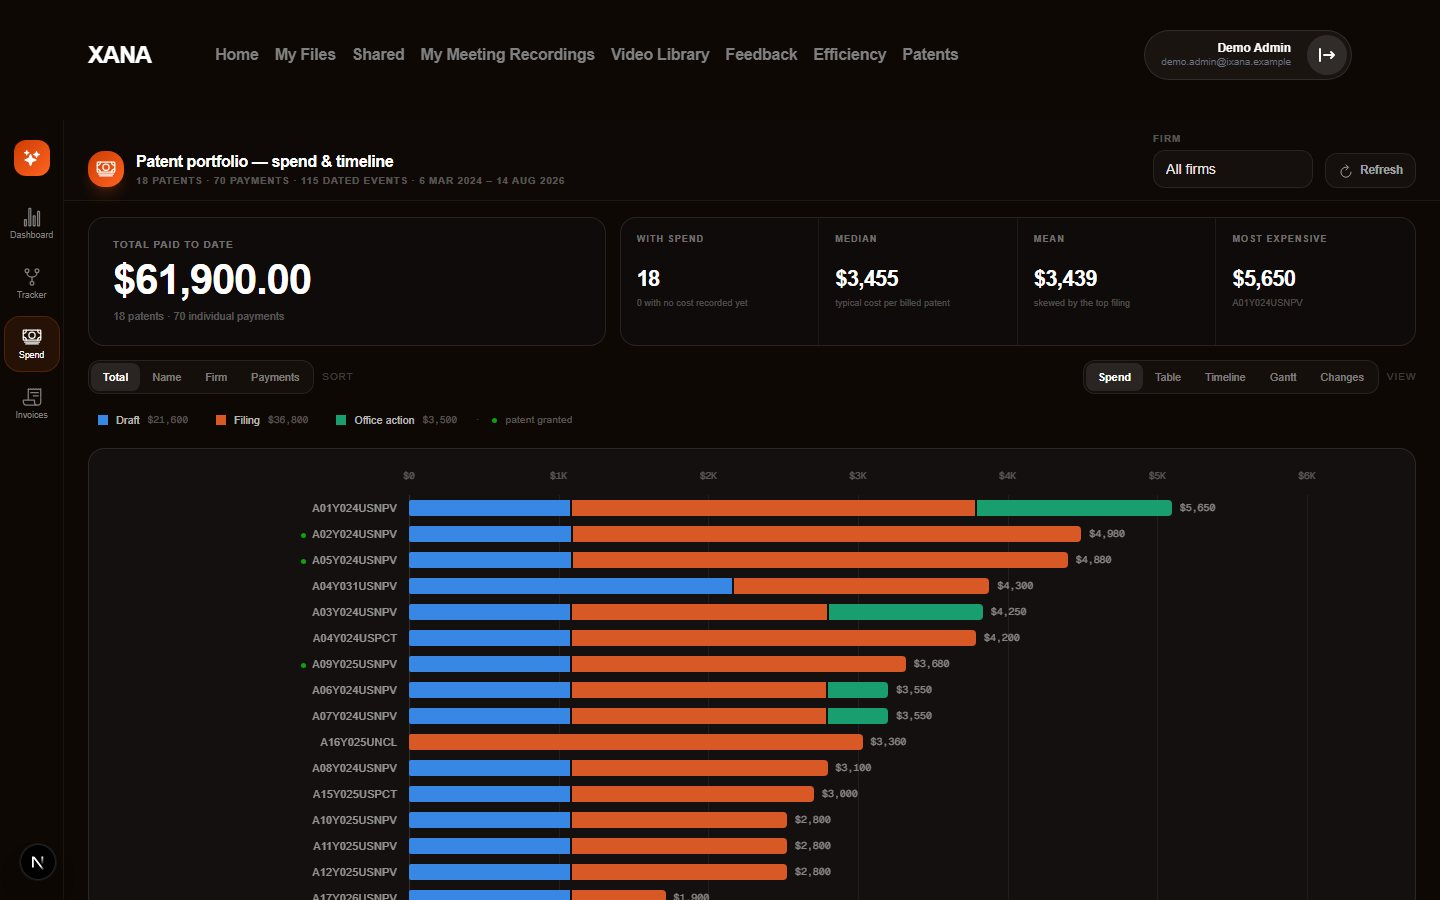
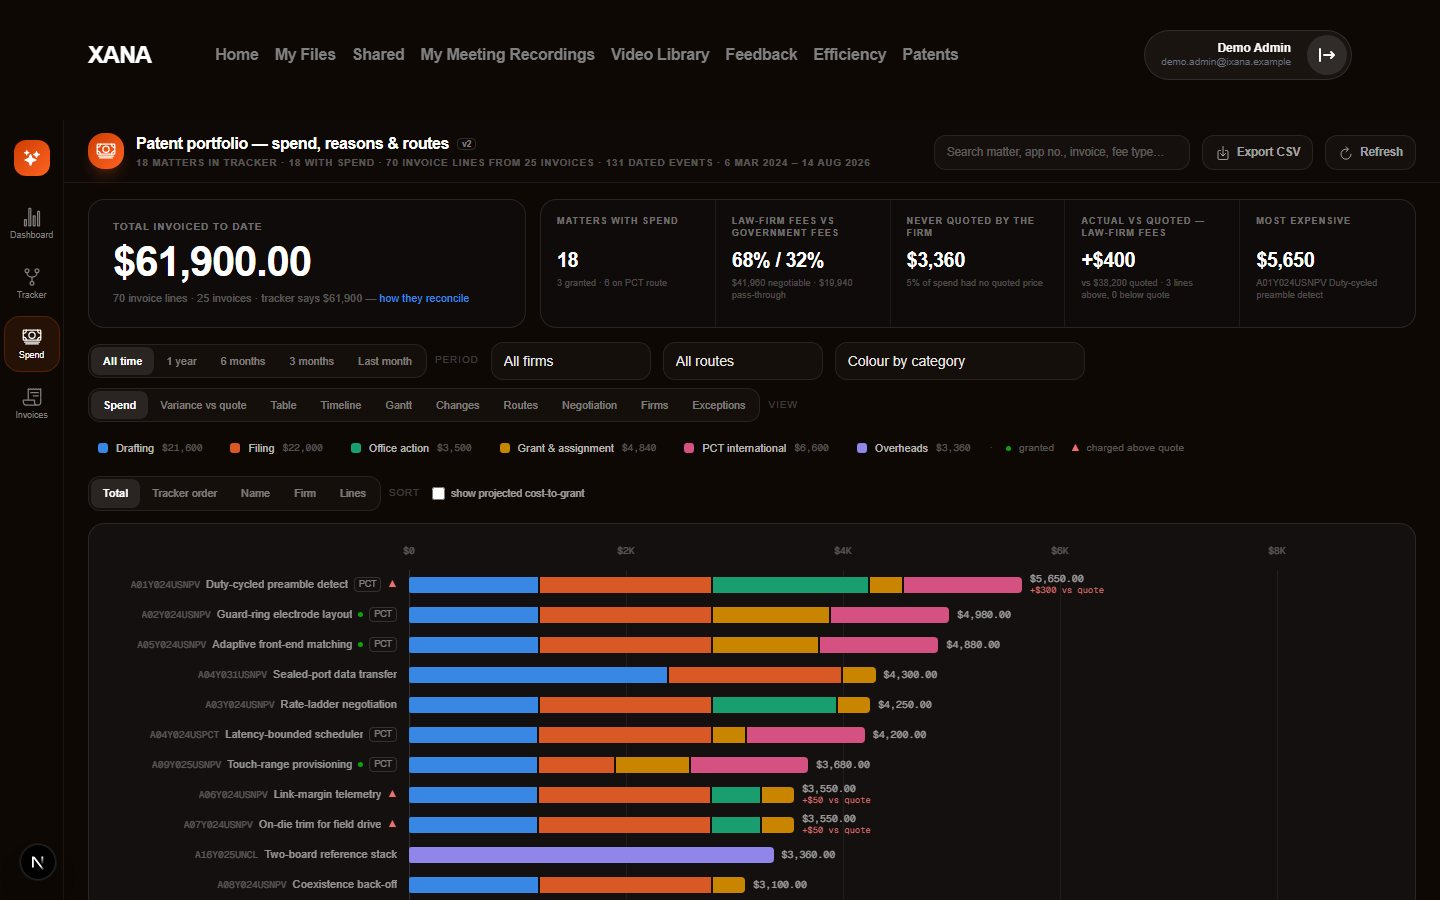
patent program: the spend tile shows the ten-view tool it links to
The demo's spend surface is now the second version of the tool - ten
views over an invoice-line ledger with quotes, variance, routes, a
forward budget, a negotiation sheet, a firm comparison and exceptions.
The gallery tile is recaptured from its new landing state; label,
caption and alt describe the ten views; the surface-table row is
renamed Spend, reasons and routes; config states the ledger, the
variance rule, the mirrored deadlines and the estimate label. No prose
changed (991 words). Section 15 of the change brief records the port
and the confidentiality handling.

diff --git a/app/Changes/ixana-patent-program-change-brief.md b/app/Changes/ixana-patent-program-change-brief.md
@@ -300,3 +300,20 @@ Both files return 0. Every matter, reference name, firm, person, subject line an
 **Rule held.** Every image is the state its own link opens. The gallery's other five tiles were re-checked against their links and left alone.
 
 **Confidentiality.** The regression grep in §13 still returns 0 on `data/case-studies-v2.json`, `public/demo/patent-clock.html`, and the demo's `src/lib/patent-demo-data.ts`. The attached HTML itself carries real matter titles, application numbers, firm names and fee amounts; it stays out of the repo (`app/work/patent_spend-1.html` is untracked and must not be committed).
+
+
+---
+
+## 15. Change record — 2026-09-26, the spend surface becomes the ten-view tool
+
+**What prompted it.** The five-view `patent_spend-1.html` turned out to be identical to what the demo already ran (§14). The genuinely newer tool is `patent_spend_v2.html` (Cost analysis/output, 18 Sep 2026): ten views over an invoice-line ledger with quotes, variance, routes, a forward budget, a negotiation sheet, a firm comparison and exceptions. The user chose to port it.
+
+**Confidentiality first.** The v2 file carries real firm names, real quotes, real matter titles, application numbers and every real invoice line, plus a person's name in its open questions. **None of it was copied.** The port follows §12 Route A in spirit — the tool's logic and layout, a synthetic dataset — with the dataset built as a *derivation*: `src/lib/patent-ledger.ts` turns the same 18-matter `TIMELINE` every other surface reads into 70 invoice lines (one per payment; the 16 undated payments now carry the date of the filing they were invoiced with, so every line has an invoice number — event count 115 → 131, totals unchanged at $61,900 / 70 payments). The only things written down, all invented: a fee taxonomy shaped like the tracker's, three firms' quote schedules (`QUOTES`), the reasons per fee type, docketed national-phase deadlines for the six PCT matters, forward-budget quotations, four exceptions, three open questions and eight quoted-never-invoiced items. The regression grep (§13) returns 0 on every file.
+
+**The thesis held.** v2 computes 30/31-month national-phase deadlines from priority dates. This page's spine is *no statutory date computed anywhere*, so the demo stores each deadline as the firm's docket entry (`DOCKETED_NATIONAL_PHASE`, with `docketed_by`) and says "mirrored, not computed" wherever one is shown — Gantt diamond, Changes, Routes, drill. The forward budget is labelled ESTIMATE and states that no matter has entered a national phase (n = 0 observed), so its entry costs are the firm's quotations, not history.
+
+**Demo (XANA `main`).** `PatentSpend/` rewritten: `ledger.ts` (filters, dimensions, KPIs), `SpendChart` (colour by category / jurisdiction / owner, tracker-order and lines sorts, ▲ above-quote flag, PCT chip, variance under each total, projected cost-to-grant overlay, click → drill), `SpendDrill` (matter → category → fee type → line with the why), `SpendMatrix` (US lifecycle and PCT + national phase, per-firm blocks with quoted price, totals at quote, variance $ and %, above/below), `SpendTable` (the ledger, sortable, Export CSV), `SpendTimeline` (spend by month + invoice/event feed), `SpendGantt` (whole-programme lanes, docketed deadline diamonds, today rule, click → drill), `SpendChanges` (OA without response, allowance without issue fee, deadlines inside 400 days, HIGH exceptions, plus the dashboard's internal action dates kept apart), `SpendRoutes`, `SpendNegotiation`, `SpendFirms`, `SpendExceptions`. Header: search, Export CSV, five KPIs (matters with spend · law-firm vs government · never quoted · actual vs quoted · most expensive), period defaulting to all time, firm, route and colour selectors. Deep links: `view`, `range`, `firm`, `route`, `color`, `sort`, `mx`, `q`, `proj`, `drill`. The payload gains `ledger` (lines, patents, fee types, stats, quotes, exceptions, questions, model, e_oa, recon). Type check and lint clean; ten views screenshotted locally with zero page errors.
+
+**Case study.** Gallery tile 1 recaptured from the new landing state (`ixana-patent-spend.jpg`, same script); label, caption and alt rewritten for the ten views; surface-table row renamed *Spend, reasons and routes*; `config` describes the ledger, the variance rule, the mirrored deadlines and the estimate label. **No prose changed**; the row stays at 991 words.
+
+**Known departure from v2.** No μ/σ (v2.2 removed them too); no national-phase actuals (none exist on the synthetic portfolio); the negotiation sheet targets Firm A only, as v2 targets one firm.
